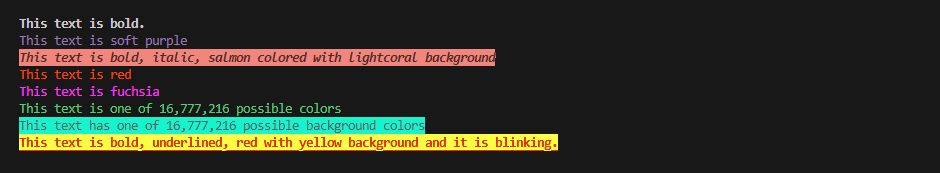
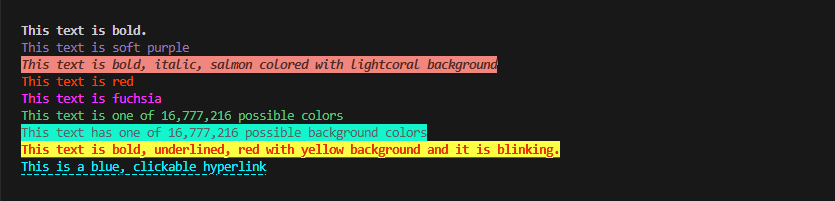
Added print_hyperlink()

Changed region(s): [[0.0, 0.0867, 0.685, 0.896]]

diff --git a/printpop/__init__.py b/printpop/__init__.py
@@ -4,11 +4,12 @@
 # PrintPop PackageStyled console printing made simple — color, format, and clarity in one package.
 # """
 
-__version__ = "0.2.1"
+__version__ = "0.2.2"
 
 from .core import print_indianred,print_lightcoral,print_salmon,print_darksalmon,print_lightsalmon,print_crimson,print_red,print_firebrick,print_darkred,print_pink,print_lightpink,print_hotpink,print_deeppink,print_mediumvioletred,print_palevioletred,print_lightsalmon,print_coral,print_tomato,print_orangered,print_darkorange,print_orange,print_gold,print_yellow,print_lightyellow,print_lemonchiffon,print_lightgoldenrodyellow,print_papayawhip,print_moccasin,print_peachpuff,print_palegoldenrod,print_khaki,print_darkkhaki,print_lavender,print_thistle,print_plum,print_violet,print_orchid,print_fuchsia,print_magenta,print_mediumorchid,print_mediumpurple,print_rebeccapurple,print_blueviolet,print_darkviolet,print_darkorchid,print_darkmagenta,print_purple,print_indigo,print_slateblue,print_darkslateblue,print_mediumslateblue,print_greenyellow,print_chartreuse,print_lawngreen,print_lime,print_limegreen,print_palegreen,print_lightgreen,print_mediumspringgreen,print_springgreen,print_mediumseagreen,print_seagreen,print_forestgreen,print_green,print_darkgreen,print_yellowgreen,print_olivedrab,print_olive,print_darkolivegreen,print_mediumaquamarine,print_darkseagreen,print_lightseagreen,print_darkcyan,print_teal,print_aqua,print_cyan,print_lightcyan,print_paleturquoise,print_aquamarine,print_turquoise,print_mediumturquoise,print_darkturquoise,print_cadetblue,print_steelblue,print_lightsteelblue,print_powderblue,print_lightblue,print_skyblue,print_lightskyblue,print_deepskyblue,print_dodgerblue,print_cornflowerblue,print_mediumslateblue,print_royalblue,print_blue,print_mediumblue,print_darkblue,print_navy,print_midnightblue,print_darkgray,print_darkgrey,print_dimgray,print_dimgrey,print_lightslategray,print_lightslategrey,print_lightgray,print_lightgrey,print_slategray,print_slategrey,print_gray,print_grey,print_darkslategray,print_darkslategrey,print_gainsboro,print_whitesmoke,print_silver,print_white,print_ghostwhite,print_snow,print_honeydew,print_mintcream,print_azure,print_aliceblue,print_floralwhite,print_seashell,print_oldlace,print_ivory,print_lavenderblush,print_linen,print_mistyrose,print_antiquewhite,print_bisque,print_blanchedalmond,print_wheat,print_cornsilk,print_brown,print_saddlebrown,print_sienna,print_chocolate,print_peru,print_sandybrown,print_burlywood,print_tan,print_rosybrown
 from .core import print_indianred_back,print_lightcoral_back,print_salmon_back,print_darksalmon_back,print_lightsalmon_back,print_crimson_back,print_red_back,print_firebrick_back,print_darkred_back,print_pink_back,print_lightpink_back,print_hotpink_back,print_deeppink_back,print_mediumvioletred_back,print_palevioletred_back,print_lightsalmon_back,print_coral_back,print_tomato_back,print_orangered_back,print_darkorange_back,print_orange_back,print_gold_back,print_yellow_back,print_lightyellow_back,print_lemonchiffon_back,print_lightgoldenrodyellow_back,print_papayawhip_back,print_moccasin_back,print_peachpuff_back,print_palegoldenrod_back,print_khaki_back,print_darkkhaki_back,print_lavender_back,print_thistle_back,print_plum_back,print_violet_back,print_orchid_back,print_fuchsia_back,print_magenta_back,print_mediumorchid_back,print_mediumpurple_back,print_rebeccapurple_back,print_blueviolet_back,print_darkviolet_back,print_darkorchid_back,print_darkmagenta_back,print_purple_back,print_indigo_back,print_slateblue_back,print_darkslateblue_back,print_mediumslateblue_back,print_greenyellow_back,print_chartreuse_back,print_lawngreen_back,print_lime_back,print_limegreen_back,print_palegreen_back,print_lightgreen_back,print_mediumspringgreen_back,print_springgreen_back,print_mediumseagreen_back,print_seagreen_back,print_forestgreen_back,print_green_back,print_darkgreen_back,print_yellowgreen_back,print_olivedrab_back,print_olive_back,print_darkolivegreen_back,print_mediumaquamarine_back,print_darkseagreen_back,print_lightseagreen_back,print_darkcyan_back,print_teal_back,print_aqua_back,print_cyan_back,print_lightcyan_back,print_paleturquoise_back,print_aquamarine_back,print_turquoise_back,print_mediumturquoise_back,print_darkturquoise_back,print_cadetblue_back,print_steelblue_back,print_lightsteelblue_back,print_powderblue_back,print_lightblue_back,print_skyblue_back,print_lightskyblue_back,print_deepskyblue_back,print_dodgerblue_back,print_cornflowerblue_back,print_mediumslateblue_back,print_royalblue_back,print_blue_back,print_mediumblue_back,print_darkblue_back,print_navy_back,print_midnightblue_back,print_darkgray_back,print_darkgrey_back,print_dimgray_back,print_dimgrey_back,print_lightslategray_back,print_lightslategrey_back,print_lightgray_back,print_lightgrey_back,print_slategray_back,print_slategrey_back,print_gray_back,print_grey_back,print_darkslategray_back,print_darkslategrey_back,print_gainsboro_back,print_whitesmoke_back,print_silver_back,print_white_back,print_ghostwhite_back,print_snow_back,print_honeydew_back,print_mintcream_back,print_azure_back,print_aliceblue_back,print_floralwhite_back,print_seashell_back,print_oldlace_back,print_ivory_back,print_lavenderblush_back,print_linen_back,print_mistyrose_back,print_antiquewhite_back,print_bisque_back,print_blanchedalmond_back,print_wheat_back,print_cornsilk_back,print_brown_back,print_saddlebrown_back,print_sienna_back,print_chocolate_back,print_peru_back,print_sandybrown_back,print_burlywood_back,print_tan_back,print_rosybrown_back
 from .core import print_formatted, print_bold, print_italic,print_underline,print_strikethrough,print_dim,print_blink,print_inverse,print_hidden,print_reset
+from .core import print_hyperlink
 from .core import print_rgb,print_color
 from .core import main
 

diff --git a/printpop/core.py b/printpop/core.py
@@ -9,13 +9,14 @@ Features:
 - Arbitrary RGB values via print_rgb().
 - Text adornments such as: bold, dim, italic, underline, blink, inverse, strikethrough.
 - Combined styling using print_formatted().
+- Formatted hyperlink using print_hyperlink().
 
 Usage:
-Use individual print_* functions for simple formatting, or print_formatted() for multiple styles.
+Use individual print_* functions for simple formatting, print_formatted() for multiple styles, or print_hyperlink() for clickable hyperlinks.
 Create reusable, styled print calls for terminal output, logs, or CLI utilities.
 
 Author: Ryan LaPine  
-Version: 0.2.1  
+Version: 0.2.2  
 Date: 2025-07-30
 """
 
@@ -48,6 +49,7 @@ Supports:
 - strikethrough
 - color (text color)
 - back_color (background color)
+- hyperlink
 """
 
 def print_formatted(
@@ -110,6 +112,69 @@ def print_formatted(
         back_color=back_color
     )
 
+def print_hyperlink(
+                    text: str = '',
+                    hyperlink: str = '',
+                    sep=' ',
+                    end='\n',
+                    file=None,
+                    flush=False,
+                    bold=False,
+                    dim=False,
+                    italic=False,
+                    underline=True,
+                    blink=False,
+                    inverse=False,
+                    hidden=False,
+                    strikethrough=False,
+                    color="",
+                    back_color=""
+                ) -> None:
+    """Prints clickable hyperlink to console
+
+    Supports combinations of text formatting styles, foreground and background colors.
+
+    Args:
+        text (str) = Text for link.
+        hyperlink (str) = Hyperlink destination.
+        sep (str): Separator between items.
+        end (str): End character.
+        file (IO, optional): Output stream (defaults to sys.stdout).
+        flush (bool): Whether to flush the output buffer.
+        bold (bool): If True, applies bold formatting.
+        dim (bool): If True, applies dim formatting.
+        italic (bool): If True, applies italic formatting.
+        underline (bool): If True, underlines text.
+        blink (bool): If True, enables blinking text.
+        inverse (bool): If True, reverses foreground/background colors.
+        hidden (bool): If True, hides the text.
+        strikethrough (bool): If True, applies strike-through.
+        color (str): Foreground color name (HTML-safe).
+        back_color (str): Background color name (HTML-safe).
+
+    Returns:
+        None
+    """
+    printer = _check_printer_obj()
+    return printer.print_hyperlink(
+                                text=text,
+                                hyperlink=hyperlink,
+                                sep=sep,
+                                end=end,
+                                file=file,
+                                flush=flush,
+                                bold=bold,
+                                dim=dim,
+                                italic=italic,
+                                underline=underline,
+                                blink=blink,
+                                strikethrough=strikethrough,
+                                inverse=inverse,
+                                hidden=hidden,
+                                color=color,
+                                back_color=back_color
+                                )
+    
 #individual format print functions
 def print_bold(*objects, sep=' ', end='\n', file=None, flush=False, reset=True):
     _color_printer = _check_printer_obj()

diff --git a/printpop/color_printer.py b/printpop/color_printer.py
@@ -8,10 +8,11 @@ ColorPrinter Class:
     - Custom RGB colors via print_rgb()
     - Common text styles: bold, dim, italic, underline, blink, inverse, hidden, strikethrough
     - Combinations of colors and styles via print_formatted()
+    - Formatted, clickable hyperlink
 
 Author: Ryan LaPine
 Date:   2025-07-30
-Version:0.2.1
+Version:0.2.2
 """
 
 from typing import Any, List, Optional, TextIO
@@ -24,6 +25,7 @@ class ColorPrinter:
     ANSI_BASE = "\x1b[{code}m"
     RGB_FOREGROUND = "\x1b[38;2;{r};{g};{b}m"
     RGB_BACKGROUND = "\x1b[48;2;{r};{g};{b}m"
+    HYPERLINK = "\x1B]8;;{hyperlink}\x1B\\{text}\x1B]8;;\x1B\\"
 
     # Prefix to mark background-color formats
     BACK_TAG = "back_"
@@ -547,3 +549,62 @@ class ColorPrinter:
         self.print_rgb(*objects, sep=sep, end=end, file=file, flush=flush,
                        reset=reset, r=rgb[0], g=rgb[1], b=rgb[2],
                        background=background)
+        
+    def print_hyperlink(self,
+                    text: str = '',
+                    hyperlink: str = '',
+                    sep: str = " ",
+                    end: str = "\n",
+                    file: Optional[TextIO] = None,
+                    flush: bool = False,
+                    bold: bool = False,
+                    dim: bool = False,
+                    italic: bool = False,
+                    underline: bool = True,
+                    blink: bool = False,
+                    inverse: bool = False,
+                    hidden: bool = False,
+                    strikethrough: bool = False,
+                    color: str = "",
+                    back_color: str = "",
+                    reset = True) -> None:
+        """Print hyperlink
+
+        Args:
+            *objects (Any): clickable text to display.
+            hyperlink (str): link location
+            sep (str): Separator between objects.
+            end (str): Line ending.
+            file (TextIO, optional): Output file-like object.
+            flush (bool): Whether to flush the output buffer.
+            bold (bool): Apply bold style.
+            dim (bool): Apply dim style.
+            italic (bool): Apply italic style.
+            underline (bool): Apply underline style.
+            blink (bool): Apply blink style.
+            inverse (bool): Apply inverse style.
+            hidden (bool): Apply hidden style.
+            strikethrough (bool): Apply strikethrough style.
+            color (str): Named foreground color.
+            back_color (str): Named background color.
+        """
+        # add hyperlink 
+        ansi_hyperlink = self.HYPERLINK.format(hyperlink=hyperlink, text=text)
+        self.print_formatted(ansi_hyperlink,
+                            sep = sep,
+                            end = end,
+                            file = file,
+                            flush = flush,
+                            bold = bold,
+                            dim = dim,
+                            italic = italic,
+                            underline = underline,
+                            blink = blink,
+                            inverse = inverse,
+                            hidden = hidden,
+                            strikethrough = strikethrough,
+                            color = color,
+                            back_color = back_color,
+                            reset = reset
+                            )
+        

diff --git a/test.py b/test.py
@@ -1,3 +1,48 @@
-import printpop
-from printpop import main
-main()
+from printpop import print_bold, print_rgb, print_formatted, print_red, print_color, print_hyperlink
+
+print()
+print()
+print()
+
+# Emphasize with bold
+print_bold("This text is bold.")
+
+# Custom RGB
+print_rgb("This text is soft purple", r=150, g=120, b=180)
+
+# Combine styles
+print_formatted("This text is bold, italic, salmon colored with lightcoral background", bold=True, italic=True, color="salmon", back_color="lightcoral")
+
+# Print color name
+print_red("This text is red")
+
+# Use named HTML-safe foreground/background colors
+print_color("This text is fuchsia", color = "fuchsia" )
+
+# Use any rgb color
+print_rgb("This text is one of 16,777,216 possible colors", r = 101, g = 201, b = 113)
+
+# Use any rgb color for background
+print_rgb("This text has one of 16,777,216 possible background colors", r = 37, g = 249, b = 201, background = True)
+
+# Combine multiple text styles and colors
+print_formatted("This text is bold, underlined, red with yellow background and it is blinking.",
+    bold=True,
+    dim=False,
+    italic=False,
+    underline=True,
+    blink=True,
+    inverse=False,
+    hidden=False,
+    strikethrough=False,
+    color="red",
+    back_color="yellow"
+)
+
+# Print clickable hyperlink
+print_hyperlink(text="This is a blue, clickable hyperlink", hyperlink="https://github.com/rlapine", color="cyan")
+
+
+print()
+print()
+print()

diff --git a/setup.py b/setup.py
@@ -2,7 +2,7 @@ from setuptools import setup, find_packages
 
 setup(
     name="printpop",
-    version="0.2.1",
+    version="0.2.2",
     packages=find_packages(),  # Auto-discovers the 'printpop' folder
     entry_points={
         "console_scripts": [

diff --git a/README.md b/README.md
@@ -4,9 +4,9 @@
 
 ---
 
-## 🎨 PrintPop V 0.2.1
+## 🎨 PrintPop V 0.2.2
 
-Styled console printing made simple — color, format, and clarity in one package.
+Styled console printing made simple — color, format, and clickable hyperlinks in one package.
 
 ---
 
@@ -19,7 +19,7 @@ Styled console printing made simple — color, format, and clarity in one packag
 
 ## ✨ Overview
 
-PrintPop is a lightweight Python utility for printing beautifully formatted text in the console. Use named HTML-safe colors, custom RGB values, and popular text styles to make CLI output clearer and more expressive.
+PrintPop is a lightweight Python utility for printing beautifully formatted text and hyperlinks in the console. Use named HTML-safe colors, custom RGB values, and popular text styles to make CLI output clearer and more expressive.
 
 Designed to work across platforms (Windows, macOS, Linux), and built for developers, educators, and CLI power users.
 
@@ -39,6 +39,7 @@ Designed to work across platforms (Windows, macOS, Linux), and built for develop
 - ✅ Custom RGB Styling: Define any RGB values for precise color output—ideal for branding or design-themed CLI tools.
 - ✅ Text Style Formatting: Combine bold, italic, underline, and more for expressive output.
 - ✅ Background Colors: Control the background with both named and RGB values for contrast-rich displays.
+- ✅ Hyperlink printing in color and format. 
 - ✅ Cross-Platform ANSI Support: Works reliably on Windows, macOS, and Linux terminals using ANSI escape codes.
 - ✅ Convenient Wrapper Functions: print_bold(), print_rgb(), print_formatted()—no need to remember styling syntax.
 - ✅ Interactive CLI Demo: Run console_test.py to preview styles, test terminal capabilities, or explore colors hands-on.
@@ -60,13 +61,14 @@ Designed to work across platforms (Windows, macOS, Linux), and built for develop
 - `print_rgb(text_to_print: str, r: int, g: int, b: int)`: Prints text in rgb color. 
 - `print_color(text_to_print: str, color: str, background: bool)`: Prints background in color if backround is True.
 - `print_formatted(text_to_print: str, bold: bool, ...`: Prints with formats and colors.
+- `print_hyperlink(text: str, hyperlink: str, color: str ...`: Prints clickable hyperlink with formats and colors.
 
 ---
 
 ## 🔧 Usage Examples
 
 ```
-from printpop import print_bold, print_rgb, print_formatted, print_red, print_color
+from printpop import print_bold, print_rgb, print_formatted, print_red, print_color, print_hyperlink
 
 # Emphasize with bold
 print_bold("This text is bold.")
@@ -102,6 +104,9 @@ print_formatted("This text is bold, underlined, red with yellow background and i
     color="red",
     back_color="yellow"
 )
+
+# Print clickable hyperlink
+print_hyperlink(text="This is a blue, clickable hyperlink", hyperlink="https://github.com/rlapine", color="blue")
 ```
 <p align="left">
   <img src="https://raw.githubusercontent.com/rlapine/printpop/refs/heads/main/assets/colorprinter_usage_output.png" alt="console output" width="800"/>
